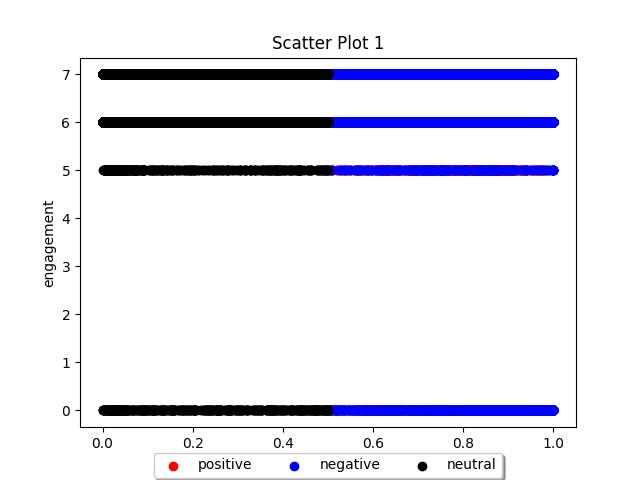
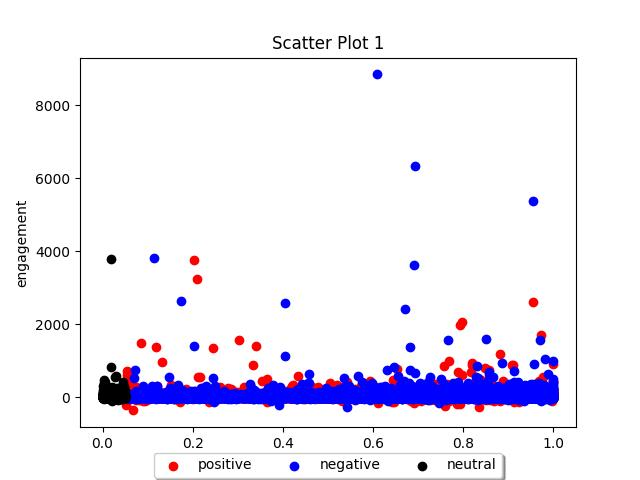
updated neutral value

diff --git a/plotting.py b/plotting.py
@@ -35,11 +35,11 @@ def gen_rand_list(number, val):
 
 def sort_pos_neu_neg(polarity, engagement):
     for i in range(len(polarity)):
-        if polarity[i] >= 0.5:
+        if polarity[i] >= 0.05:
             positive_pol.append(polarity[i])
             positive_eng.append(engagement[i])
             # positive[polarity[i]] = engagement[i]
-        elif polarity[i] <= -0.5:
+        elif polarity[i] <= -0.05:
             negative_pol.append(polarity[i])
             negative_eng.append(engagement[i])
             # negative[polarity[i]] = engagement[i]
@@ -66,11 +66,11 @@ def get_mean(polarity, engagement):
 
     for i in range(len(polarity)):
 
-        if polarity[i] >= 0.5:
+        if polarity[i] >= 0.05:
             # is positive
             pos_sum += engagement[i]
             pos_count += 1
-        elif polarity[i] <= -0.5:
+        elif polarity[i] <= -0.05:
             # is negative
             neg_sum += engagement[i]
             neg_count += 1
@@ -163,7 +163,7 @@ if __name__ == "__main__":
     # print(engagement)
     # polarity = [0.5, 1, 0, 0.5, -1, -0.25]
     # engagement = [1, -5, 1.5, 2, 4, 5]
-    sort_pos_neu_neg(polarity, comments)
+    sort_pos_neu_neg(polarity, engagement)
 
     print(len(positive_pol))
     print(len(positive_eng))
@@ -183,12 +183,12 @@ if __name__ == "__main__":
     print("Neutral")
     print(get_co_var(neutral_pol, neutral_eng))
     print()
-    # scatter_plot(polarity, engagement)
-    # bar_plot_means(polarity, engagement)
-    # scatter_plot_abs(polarity, engagement)
-    # print(spearmanr(polarity, engagement))
+    scatter_plot(polarity, engagement)
+    bar_plot_means(polarity, engagement)
+    scatter_plot_abs(polarity, engagement)
+    print(spearmanr(polarity, engagement))
 
-    print(get_co_var(get_abs(polarity),comments))
-    print(spearmanr(get_abs(polarity),comments))
+    print(get_co_var(get_abs(polarity),engagement))
+    print(spearmanr(get_abs(polarity),engagement))
     #scatter_plot_abs(polarity, comments)
-    bar_plot_means(polarity, comments)
+    # bar_plot_means(polarity, comments)
